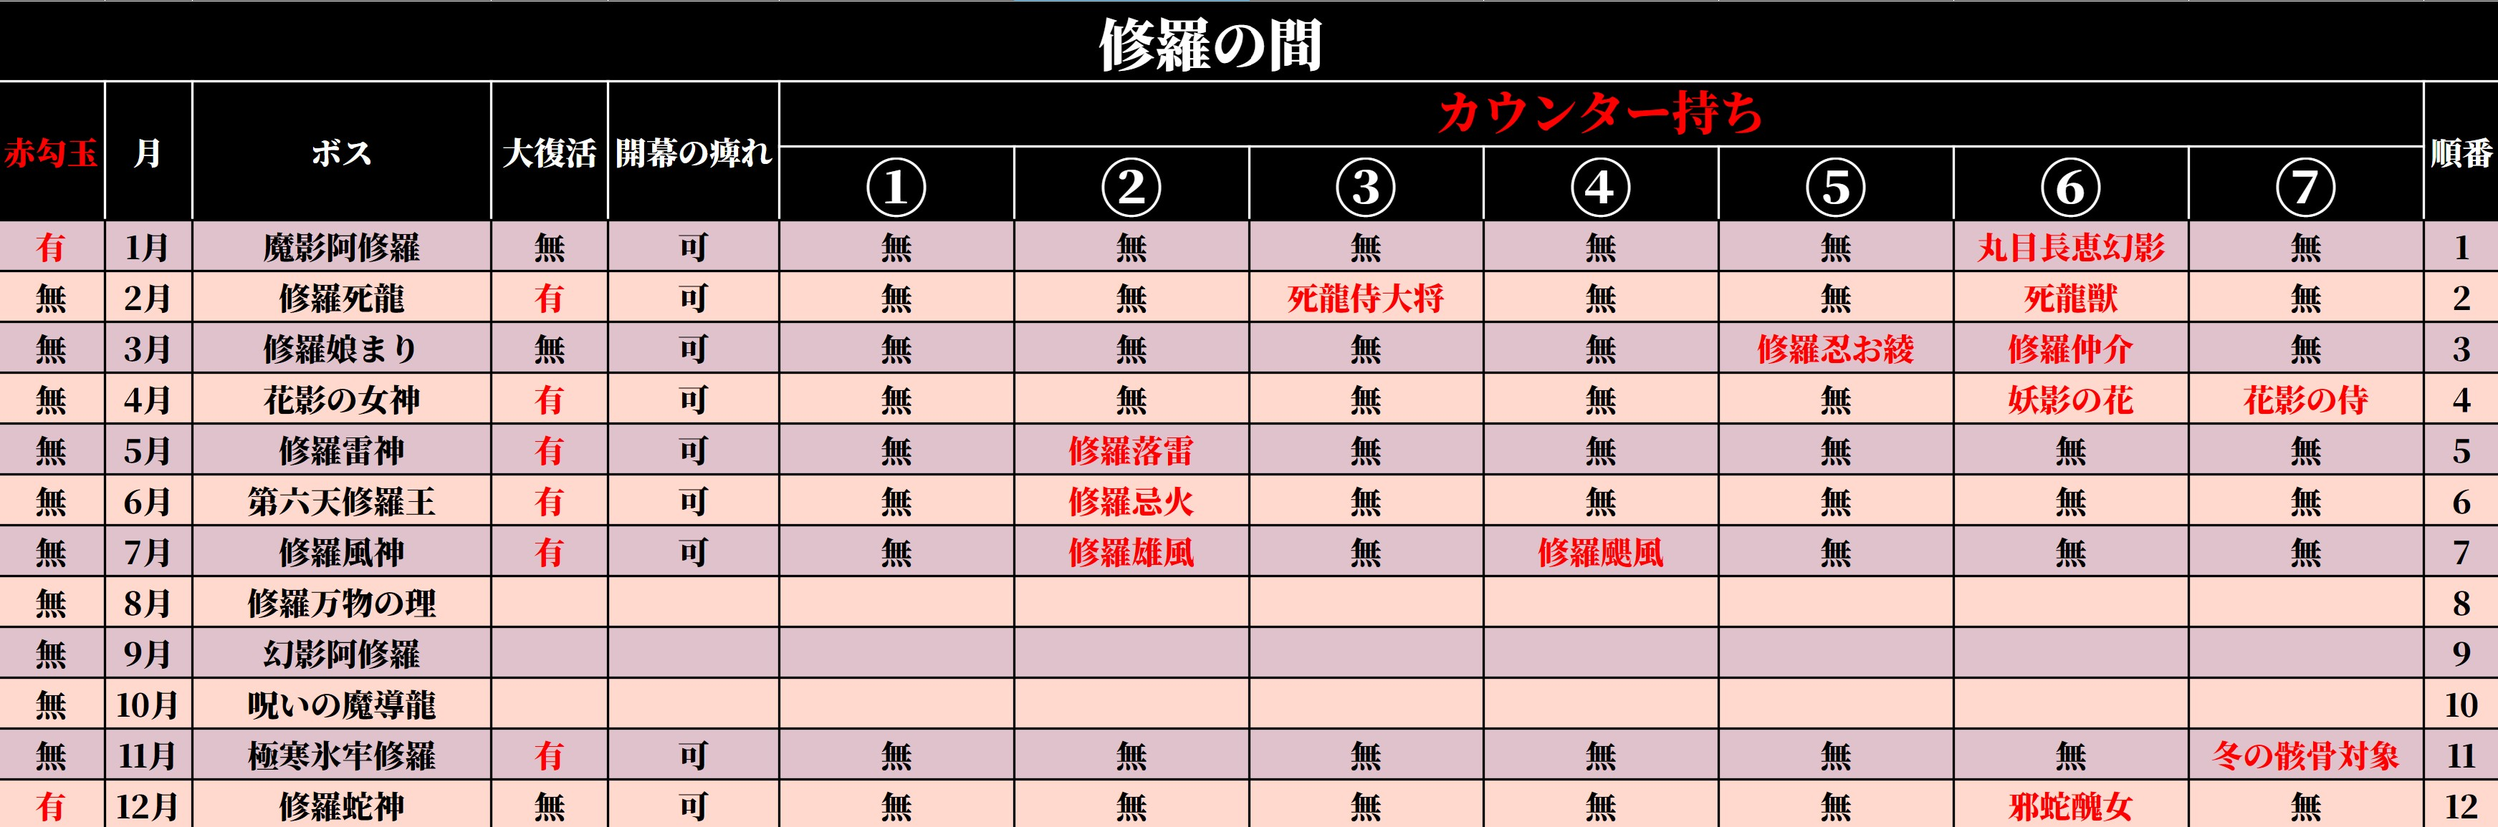
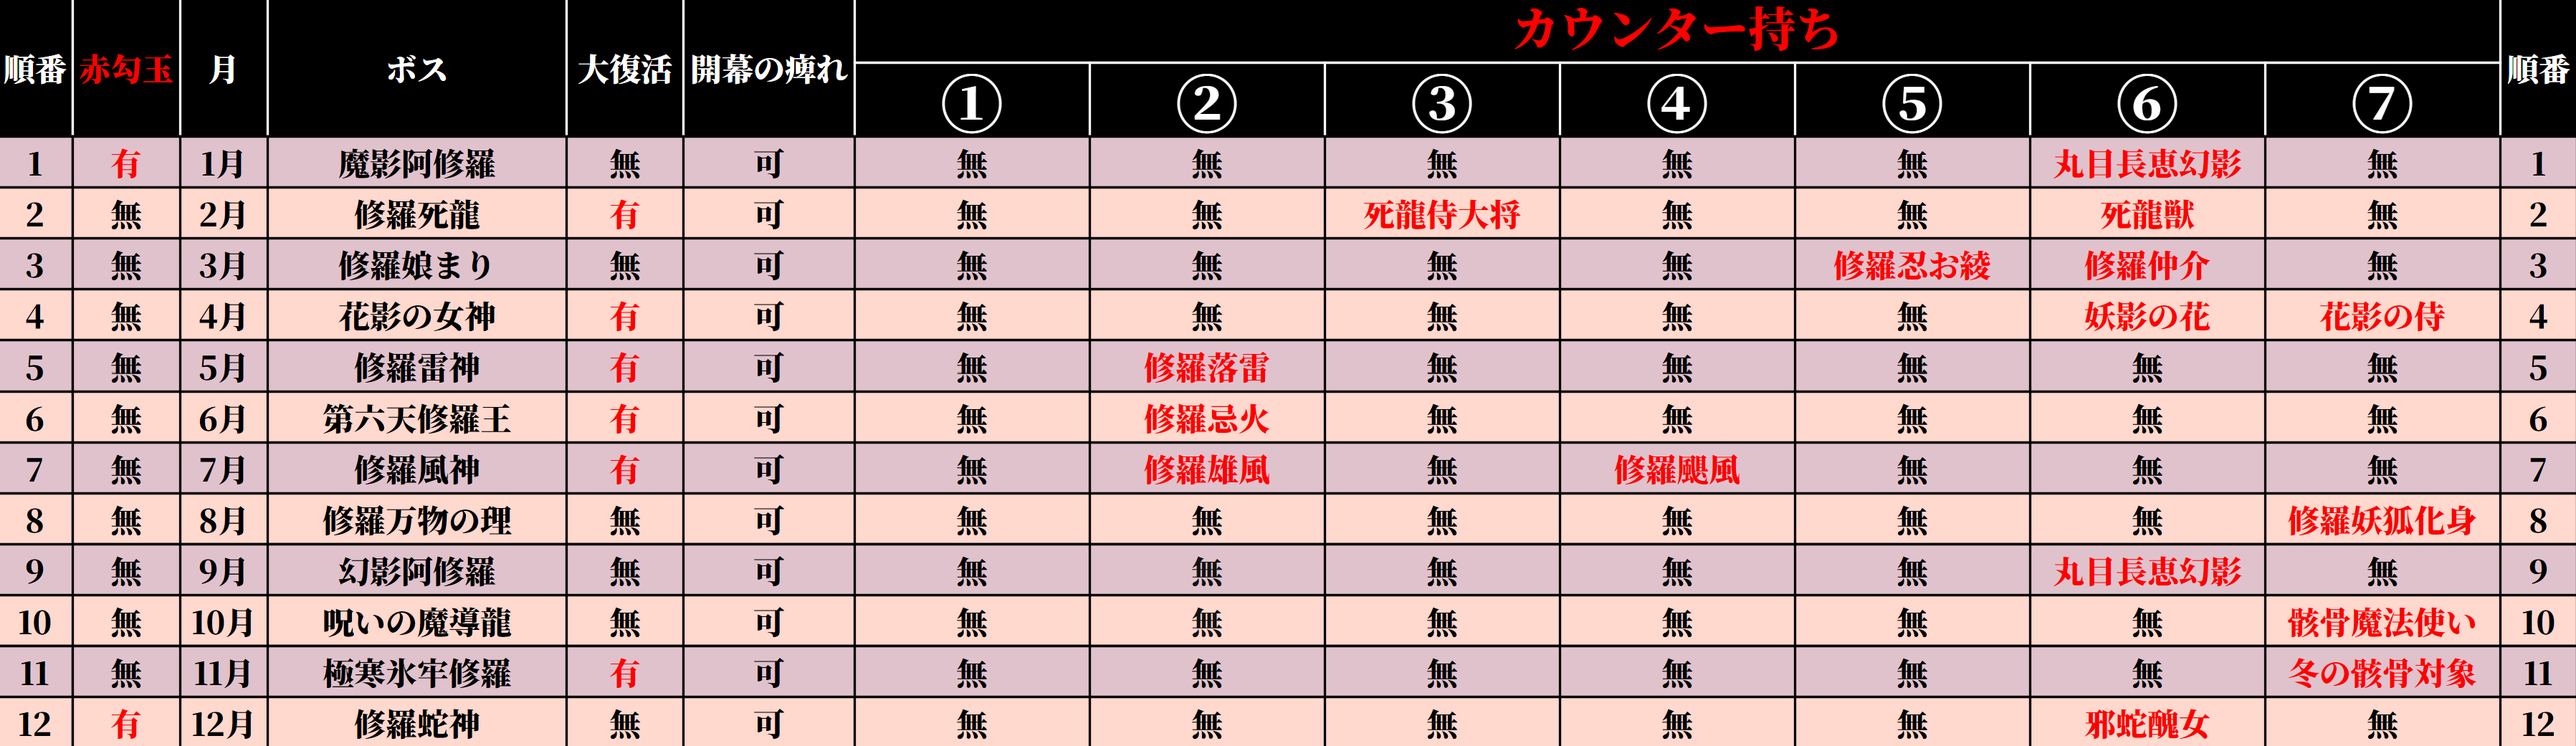
1

diff --git a/kiwamishura.html b/kiwamishura.html
@@ -1,0 +1,78 @@
+<!DOCTYPE html>
+<html lang="ja">
+<head>
+<meta charset="UTF-8">
+<meta name="viewport" content="width=device-width, initial-scale=1.0">
+
+<title>修羅の間・極</title>
+
+<style>
+body {
+    margin: 0;
+    min-height: 100vh;
+    overflow-y: auto;
+
+    background: url("修羅の間・極.png") no-repeat center top;
+    background-size: 90% auto;
+    background-color: black;
+
+    padding-bottom: 90px;
+}
+
+.imgbtn {
+    position: fixed;
+    border: none;
+    background: none;
+    padding: 0;
+    cursor: pointer;
+    z-index: 10;
+}
+
+.imgbtn img {
+    width: 120px;
+    transition: transform 0.15s, filter 0.15s;
+}
+
+.home-fixed {
+    bottom: 2px;
+    left: 5px;
+}
+
+.back-fixed {
+    bottom: 175px;
+    right: 5px;
+}
+
+.imgbtn:hover img {
+    transform: scale(1.05);
+    filter:
+        brightness(1.2)
+        drop-shadow(0 0 6px rgba(255,255,200,0.9))
+        drop-shadow(0 0 14px rgba(255,230,120,0.9))
+        drop-shadow(0 0 24px rgba(255,200,80,0.8));
+}
+
+.imgbtn:active img {
+    transform: scale(0.96);
+    filter:
+        brightness(1.3)
+        drop-shadow(0 0 10px rgba(255,255,220,1))
+        drop-shadow(0 0 22px rgba(255,230,120,1))
+        drop-shadow(0 0 40px rgba(255,190,60,0.95));
+}
+</style>
+</head>
+
+<body>
+
+<button class="imgbtn home-fixed" onclick="location.href='index.html'">
+    <img src="kitan_top.png" alt="TOPに戻る">
+</button>
+
+<button class="imgbtn back-fixed" onclick="location.href='counter.html'">
+    <img src="akechi_kitanback.png" alt="戻る">
+</button>
+
+<script src="/arukimiko/bootstrap-v304.js?v=304"></script>
+</body>
+</html>

diff --git a/counter.html b/counter.html
@@ -124,7 +124,11 @@ body {
     </div>
 
     <div class="btn-group">
-        <button class="imgbtn" onclick="location.href='shura.html'">
+       <button class="imgbtn" onclick="location.href='kiwamishura.html'">
+            <img src="kiwamishura.png" alt="修羅の間・極">
+        </button>
+
+            <button class="imgbtn" onclick="location.href='shura.html'">
             <img src="shura.png" alt="修羅の間">
         </button>
     </div>
